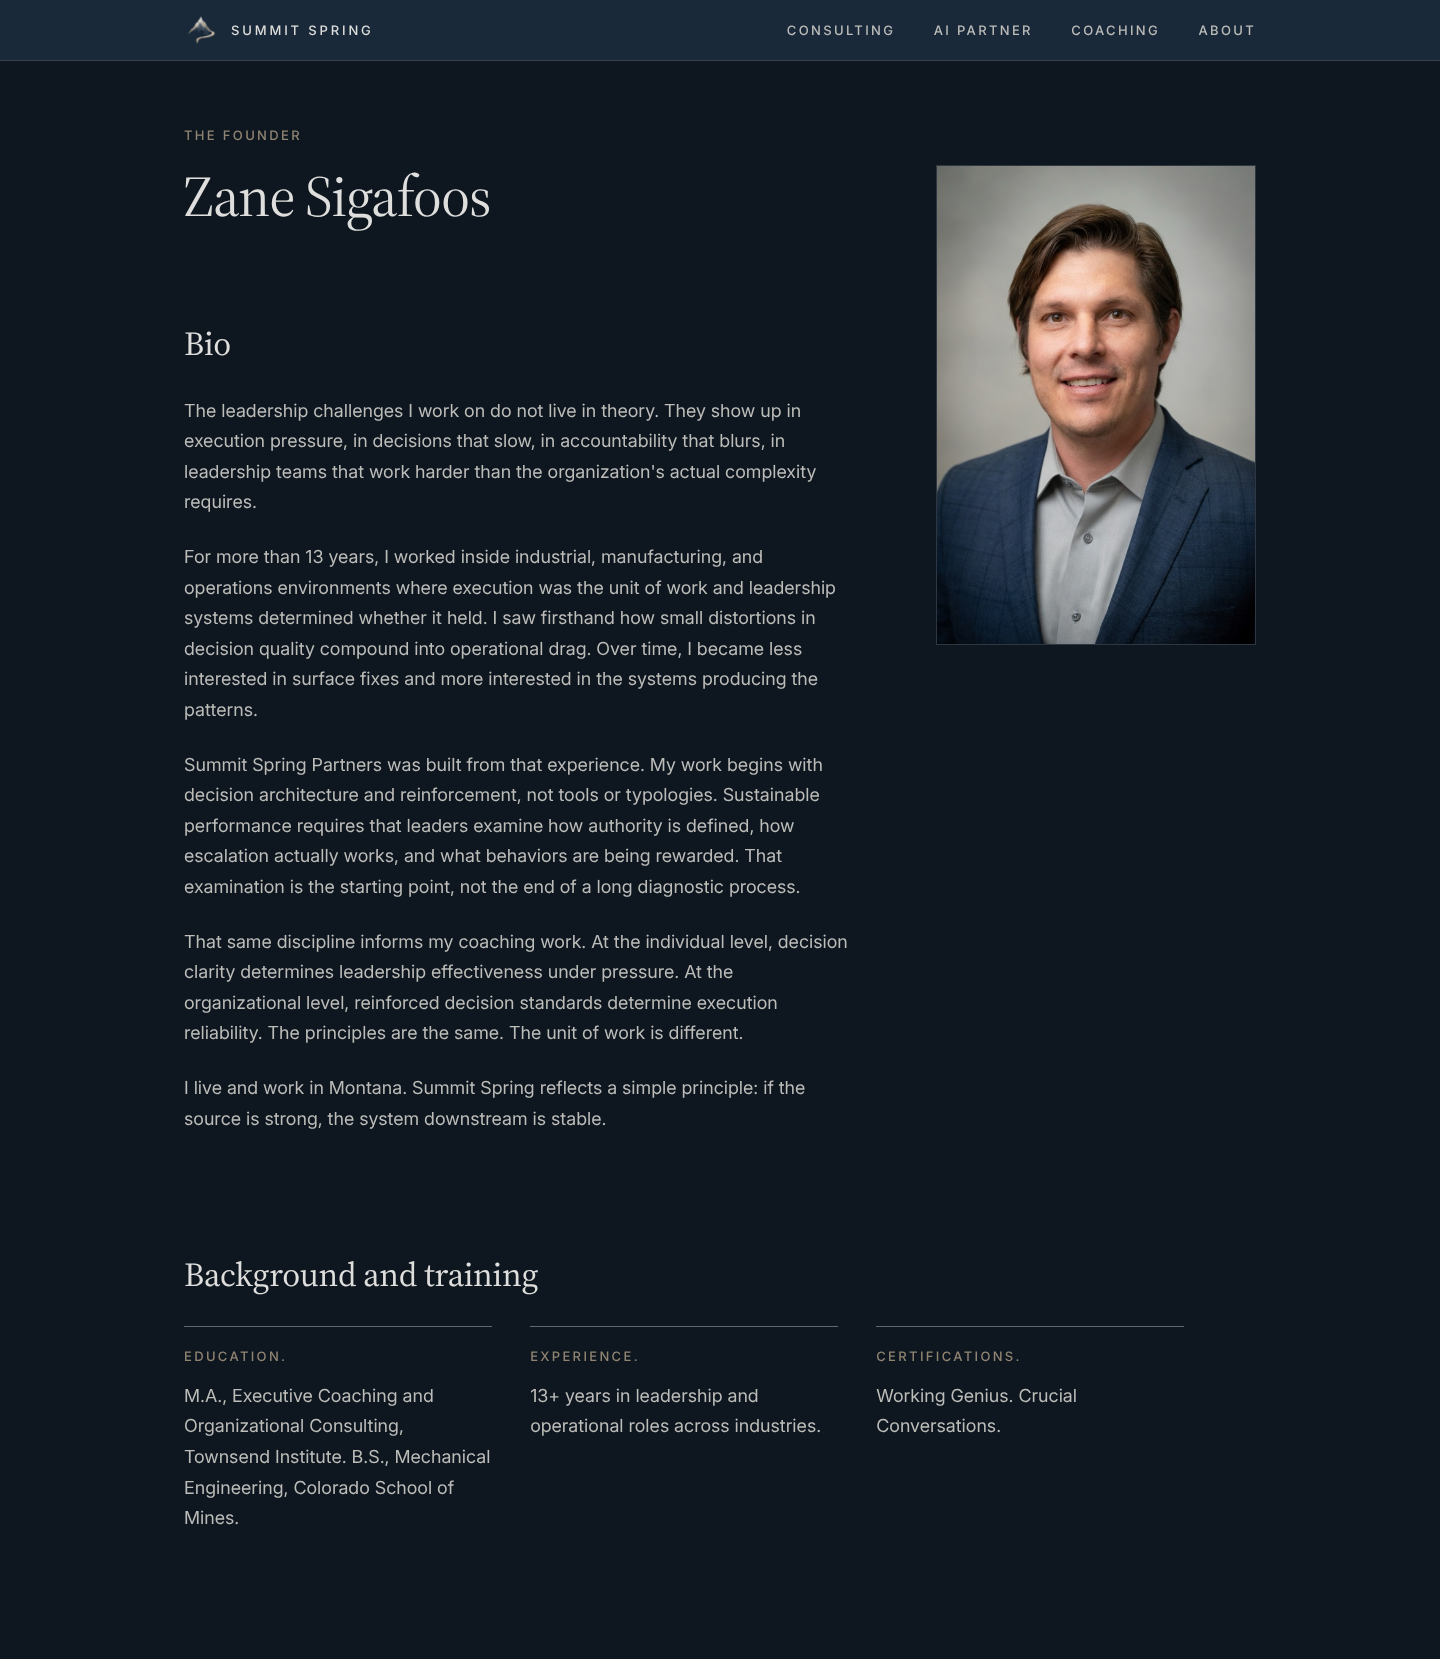
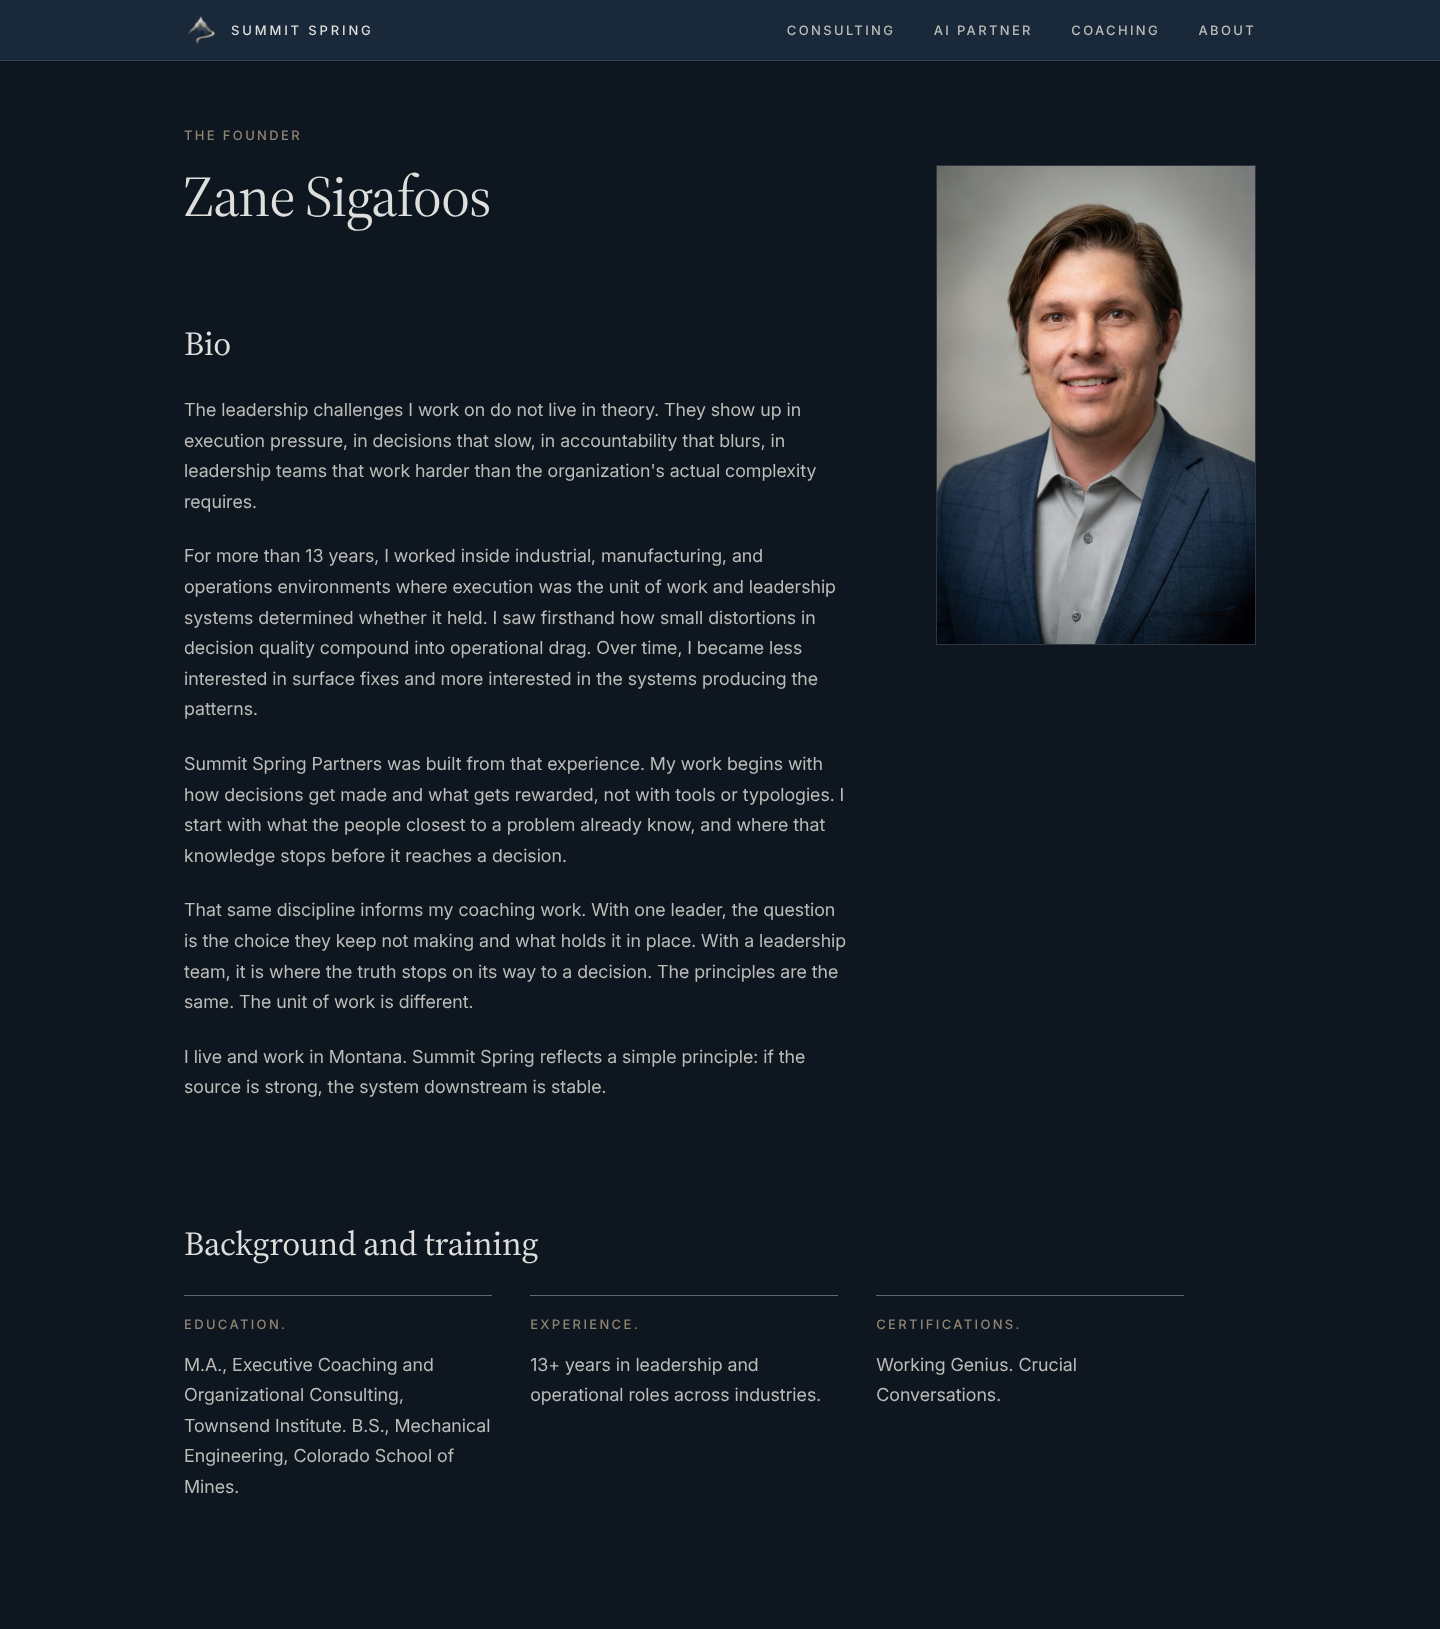
Lap two report and final shots: website-lap2-report-2026-10-27.md, shots/founder-375.png, shots/founder-768.png, shots/founder-1440.png
The report records the three changes, every check's result, the deviations and what is left for the home session, and the founder shots are retaken on the Revision 6 text.

Claude-Session: https://claude.ai/code/session_01HAknPxcXYtyzeMAjdDJqyJ

diff --git a/website-lap2-report-2026-10-27.md b/website-lap2-report-2026-10-27.md
@@ -1,0 +1,43 @@
+# Website lap two, 2026-10-27
+
+Branch website-one-page, pull request #1. Nothing merged, main untouched, nothing deployed.
+
+## Done
+
+1. **Hero A.** data-hero="a" on the summit band; your five rules in css/site.css, word for word. Hero B is gone: its ten image files, its three CSS rules and both preview pages. The proof script reads index.html alone. The photo source is one line under the 2.1 amendment in copy/ssp-brand-rules.md. Commit 84a0296.
+2. **Founder band.** Two columns above 768px. Name and bio sit on the left. The photo sits on the right, 260 to 320px wide, its top level with the name. It takes no height of its own, so it can never run taller than the bio; object-fit crops it if the bio is short (tested). Credentials run full width below. On phones the photo sits above the name at 192 to 200px. Commit d63f123.
+3. **Revision 6 copy pass.** 30 passages across consulting, AI, coaching, practice and founder. The copy doc came first: those five bands are reopened as drafts, and the status line is dated and names both methods and your brief. The page follows the doc. **Read copy/revision-6-changes.md to approve.** Every change is there with before, after and the method section behind it. Commit 99bed0f.
+
+## Checks
+
+- Nu validator, index.html and 404.html: no errors, no warnings.
+- copy_pass_proof.py --no-live: 8 of 8. Page to doc: 166 nodes, all in the doc. Doc to page: 122 lines, all on the page. The live cell is skipped before a deploy, as designed.
+- Computed colors, every element and pseudo element with details open, plus hover states: only 1B2C3E, DEDEDC, BCBCB9, 5E6975, CDC1B3, 908472 and 0E161F.
+- Sorter: tap, Left, Right, Enter and drag each moved the cards and the hours added up. Without script it reads as the two columns.
+- Details: all three open and close by click and Enter, with and without script. Closed by default, and the text stays in the source.
+- Apache redirects: all eleven old paths return 301 to their band. A missing page returns 404 with 404.html.
+- Anchor landings: all seven land with the band at the top and the first line below the bar.
+- Band beacons: seven fired, one per band, in order. Without script the pixel fires once for /. count.php accepts all eight values.
+- Horizontal scroll at 375, 768 and 1440, details open and closed: none.
+- Summit framing at 375, 768, 1440, 1728 and 1920 (shots/summit-*.png): the peaks sit under the clouds with margin, the type sits on the dark forest, the river bend shows near the bottom, and the photo fades into the ground before band 2. On phones the river shows.
+- Founder band at 375, 768 and 1440 (shots/founder-*.png): no empty block beside the photo.
+
+## Deviations
+
+- **Branch.** I pushed to website-one-page as you asked. The session's own branch, claude/website-one-page-lap2-6kt492, carries the same commits.
+- **Summit at 1440.** At a 900px tall window the text plus padding runs 56px past 78vw. The band there shows about 82% of the photo's height rather than 78%. The framing still reads as intended. I kept your rules exact.
+- **768px gets the phone layout.** Your summit media query and the founder brief both start the desktop layout at 769px.
+- **Photo source in two places.** Rule 2.1 says the source is recorded in the copy doc, so I also wrote it beside band 1 there. That note does not render.
+- **Phase 1 lost "(2 to 4 weeks)".** Phase 1 now includes the three team sessions, and the method sets no length. Entry 9 in the changes file.
+- **Coaching dropped "meeting weekly".** Plain Sight's default is every two weeks, and that figure is still in brackets. Entry 26.
+- **Proof script cell 3** still checks for "Revision 5a". I only repointed the script; it does not yet check for Revision 6.
+- **Hero B deletion.** The build lane says nothing is deleted. I followed this prompt, and the files remain in git history.
+- **Proof log.** The proof line went to this cloud container's log, with no key, not to your machine's log.
+
+## Left for the home session
+
+- Your read of copy/revision-6-changes.md, then relock the five bands.
+- The gate, then the Judge against copy/website-copy.md and the two method files.
+- **Before deploy:** scripts/deploy.sh does not exclude shots/ or this report, so a deploy as it stands would publish both. Add excludes or move them first.
+- The merge of pull request #1, then the deploy: you run scripts/deploy.sh and type yes. Then run copy_pass_proof.py live.
+- The photo sources are already written; nothing more is owed there.
